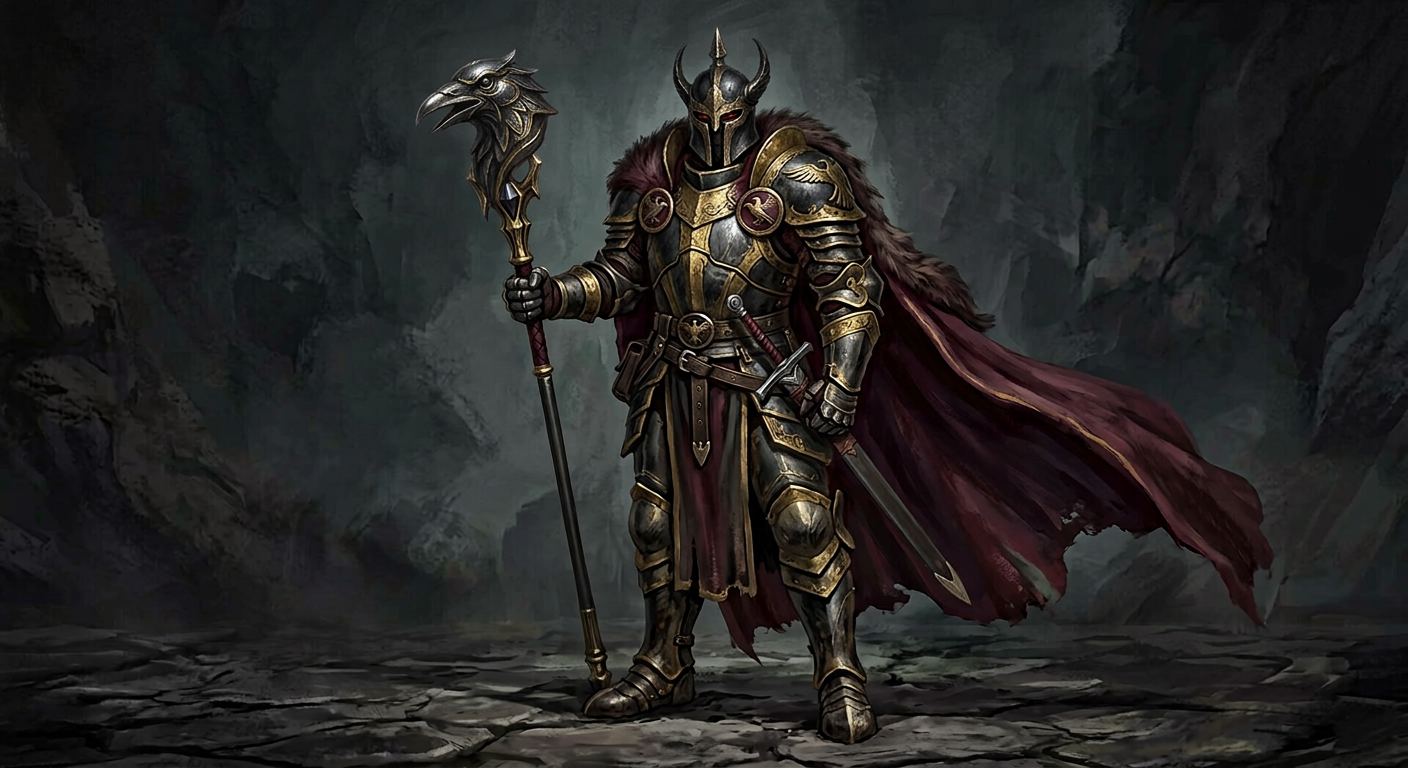
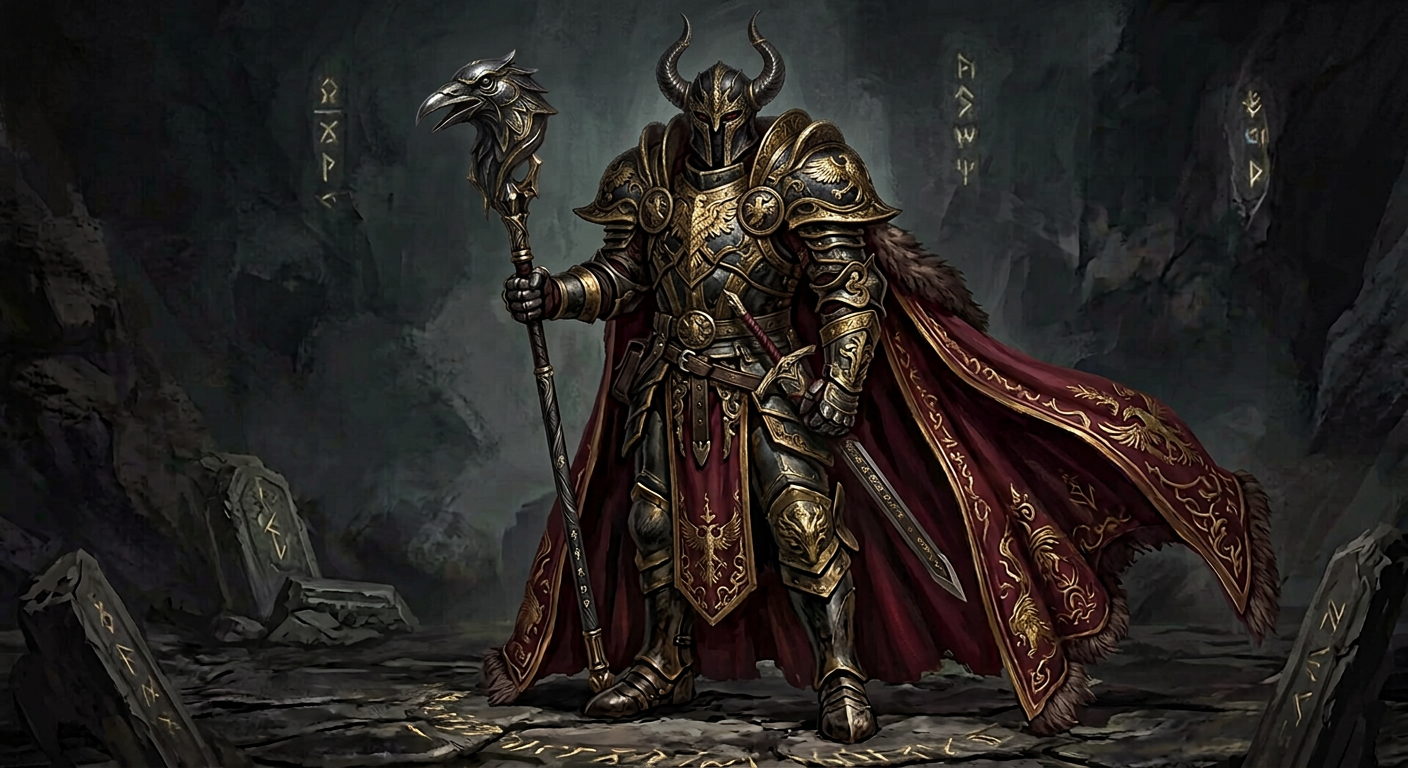
Align hero concepts with classic MU fantasy direction

diff --git a/src/client/dev_viewer/characterConcepts.js b/src/client/dev_viewer/characterConcepts.js
@@ -1,9 +1,9 @@
 /** Concepts iniciais, não modelos aprovados nem folhas técnicas completas. */
 export const CHARACTER_CONCEPTS = Object.freeze({
-  DK: { title: 'Cavaleiro do Sangue', description: 'Placas de aço escuro e vermelho, espada e escudo para uma silhueta defensiva.' },
-  DW: { title: 'Arquimago do Caos', description: 'Vestes azuis escuras, cajado e foco arcano ciano em uma silhueta alongada.' },
-  ELF: { title: 'Vigia da Floresta', description: 'Armadura leve verde e bronze, arco e aljava inspirados na floresta de Noria.' },
-  MG: { title: 'Gladiador Rúnico', description: 'Armadura de aço, tecidos escuros e lâmina rúnica violeta para o combatente híbrido.' },
+  DK: { title: 'Cavaleiro do Sangue', description: 'Armadura heroica de aço e vermelho, motivos dracônicos, espada e escudo para uma silhueta defensiva.' },
+  DW: { title: 'Arquimago do Caos', description: 'Túnica e armadura cerimonial azul-violeta, cajado e magia ciano em uma silhueta arcana.' },
+  ELF: { title: 'Vigia da Floresta', description: 'Armadura élfica ornamental verde e dourada, arco e aljava inspirados na floresta de Noria.' },
+  MG: { title: 'Gladiador Rúnico', description: 'Armadura imponente e lâmina rúnica luminosa para o combatente híbrido de espada e magia.' },
   DL: { title: 'Soberano Imperial', description: 'Aço negro, ouro envelhecido, manto bordô e cetro com motivo de corvo.' },
 });
 export function getCharacterConcept(id) {

diff --git a/docs/art/Plano_Personagens.md b/docs/art/Plano_Personagens.md
@@ -1,6 +1,16 @@
 # Preparação — personagens de Dasi
 
-Este documento organiza a próxima etapa; não indica que os personagens estejam concluídos ou aprovados. A direção escolhida continua sendo fantasia sombria clássica com atmosfera nostálgica e identidade própria. Os concepts devem preceder os GLBs, como no fluxo usado para os cenários.
+Este documento organiza a próxima etapa; não indica que os personagens estejam concluídos ou aprovados. A direção é explicitamente baseada no universo e na linguagem visual clássica de MU Online: arquétipos, fantasia de progressão, silhuetas heroicas, armaduras ornamentadas, armas marcantes, asas e efeitos mágicos. Dasi mantém identidade própria, mas não deve se afastar dessa referência para um medieval genérico. Os concepts devem preceder os GLBs, como no fluxo usado para os cenários.
+
+## Direção visual das classes
+
+- **DK:** guerreiro corpo a corpo de armadura pesada, ombreiras imponentes, motivos dracônicos e espada/escudo; progressão visível de equipamento.
+- **DW:** mago arcano com armadura e túnica cerimoniais, cajado, brilho mágico e silhueta claramente diferente do guerreiro.
+- **ELF:** arqueira élfica com arco e equipamento leve ornamental, formas orgânicas e leitura de agilidade e suporte.
+- **MG:** guerreiro-mago híbrido, com armadura heroica e runas/efeitos que comuniquem a combinação de espada e magia.
+- **DL:** soberano de combate e comando, com armadura imperial, cetro, manto e referência ao corvo.
+
+Asas, níveis de refinamento e equipamentos evoluídos fazem parte da fantasia de progressão, mas não precisam aparecer em todas as variações. Os cinco concepts iniciais foram revisados nessa direção; são referências, não vistas técnicas, modelos finais nem aprovação. Preservar legibilidade em escala de jogo.
 
 ## Inventário existente
 
